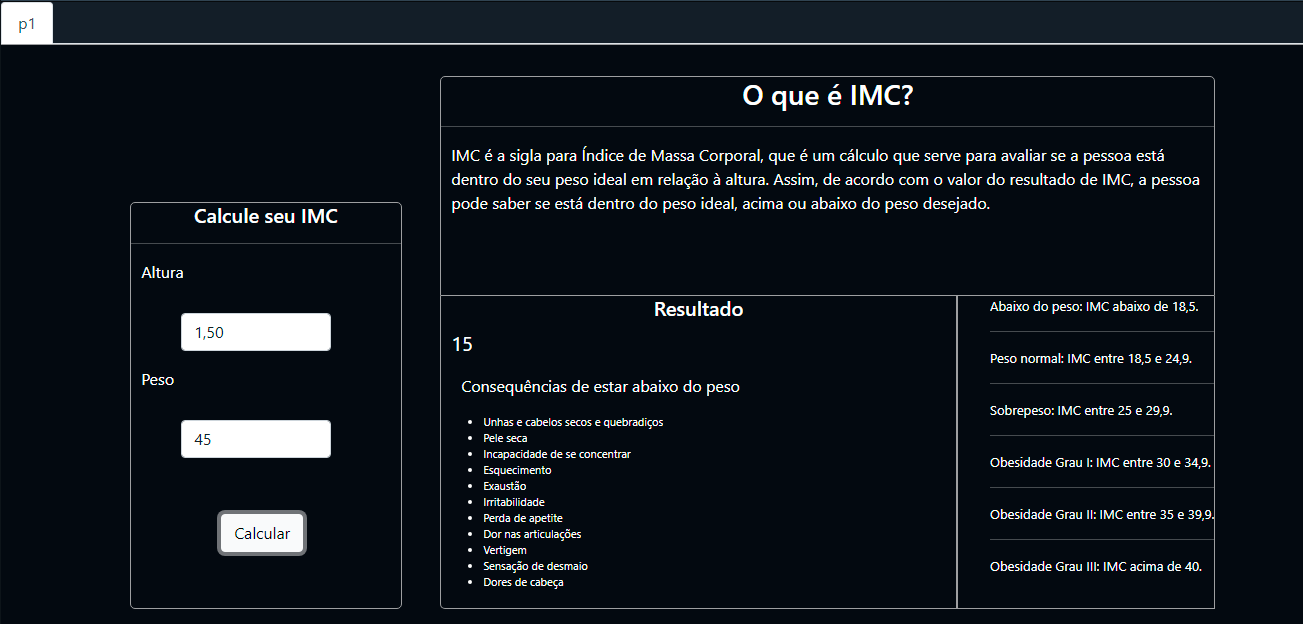
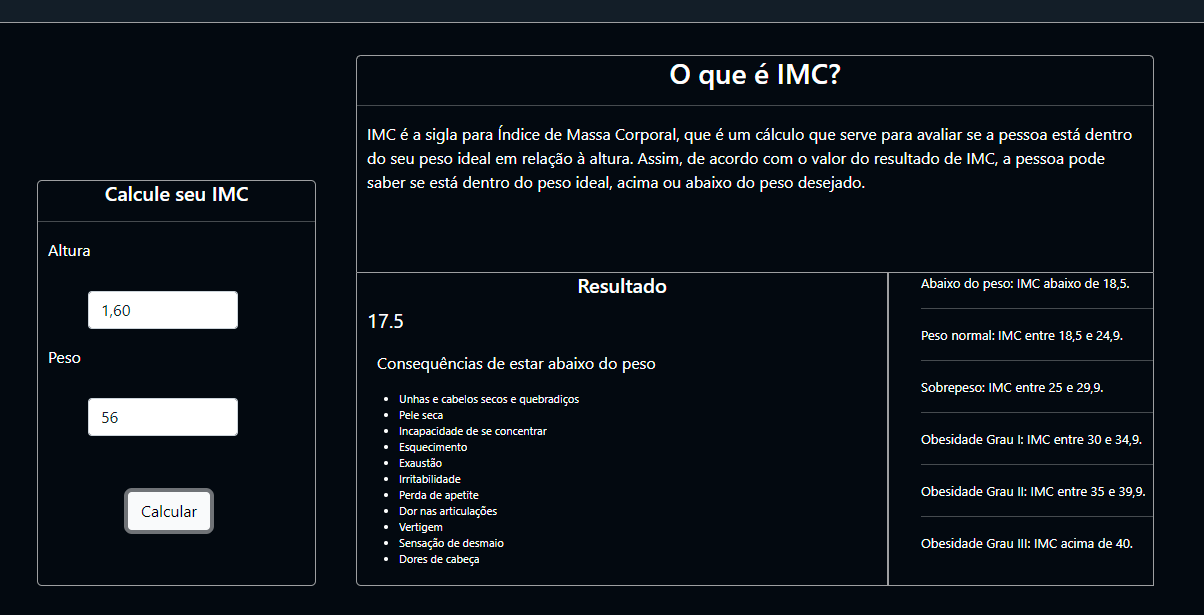
lay

diff --git a/IMC/index.js b/IMC/index.js
@@ -18,23 +18,23 @@ function Calcular() {
 
             } else if (imc < 24.9) {
                 res.innerHTML = imc
-                res2.innerHTML = '<h4>Peso normal!</h4> <p>asassa</p>'
+                res2.innerHTML = '<h4>Peso normal!</h4> <p>De acordo com a OMS, seu IMC é considerado normal para a sua altura. Para manter o valor de IMC normal</p>'
 
             } else if (imc < 29.9) {
                 res.innerHTML = imc
-                res2.innerHTML = '<h1>Sobre peso!</h1> <p>asassa</p>'
+                res2.innerHTML = '<h1>Sobre peso!</h1> <p>De acordo com a OMS, seu IMC está acima do recomendado para a sua altura. o cálculo de IMC não leva em consideração a composição corporal. Por esse motivo, pessoas com muita massa muscular, como é o caso de alguns atletas, podem apresentar um IMC acima do normal. O ideal é consultar um nutricionista para fazer uma avaliação mais detalhada.</p>'
 
             } else if (imc < 34.9) {
                 res.innerHTML = imc
-                res2.innerHTML = '<h1>Obesidade grau I!</h1> <p>asassa</p>'
+                res2.innerHTML = '<h1>Obesidade grau I!</h1> <p>De acordo com a OMS, seu IMC está acima do recomendado para a sua altura.</p><p> O ideal é consultar um nutricionista para fazer uma avaliação mais detalhada.</p>'
             }
             else if (imc < 39.9) {
                 res.innerHTML = imc
-                res2.innerHTML = '<h1>Obesidade grau II!</h1> <p>asassa</p>'
+                res2.innerHTML = '<h1>Obesidade grau II!</h1> <p>De acordo com a OMS, seu IMC está acima do recomendado para a sua altura.</p><p> O ideal é consultar um nutricionista para fazer uma avaliação mais detalhada.</p>'
             }
             else if (imc <= 40) {
                 res.innerHTML = imc
-                res2.innerHTML = '<h1>Obesidade grau III!</h1> <p>asassa</p>'
+                res2.innerHTML = '<h1>Obesidade grau III!</h1> <p>De acordo com a OMS, seu IMC está acima do recomendado para a sua altura.</p><p> O ideal é consultar um nutricionista para fazer uma avaliação mais detalhada.</p>'
             }
         }
 }

diff --git a/IMC/index.html b/IMC/index.html
@@ -17,17 +17,9 @@
     <script src="boot/js/bootstrap.min.js"></script>
 </head>
 <body>   
-    <div class="a1">
-        <nav>
-            <div class="nav nav-tabs" id="nav-tab" role="tablist">
-                  <button class="nav-link active" id="nav-p1-tab" data-bs-toggle="tab" data-bs-target="#nav-p1" type="button" role="tab" aria-controls="nav-p1" aria-selected="true">p1</button>         
-            </div>
-        </nav>
-    </div>
-
-        <div class="tab-content" id="nav-tabContent">
-            <div class="tab-pane fade show active" id="nav-p1" role="tabpanel" aria-labelledby="nav-p1-tab">
+    
                 <div id="container">
+                    <div class="a1"></div>
                     <div class="a2">
                         <h3>O que é IMC?</h3>
                         <hr>
@@ -71,15 +63,9 @@
                           </div>
                         <button type="button" class="btn btn-light" id="but" onclick="Calcular()">Calcular</button>
                     </div>
-                    <div class="a7">7</div>
+                    <div class="a7"></div>
                 </div>
             </div>
-
-
-
-
-                         
-        </div>
 </body>
 <script src="index.js"></script>
 </html>

diff --git a/IMC/index.css b/IMC/index.css
@@ -11,8 +11,9 @@
     background-color: #0d1117;
     display: grid;
     grid-template-columns: 0.7fr 0.3fr 1.1fr 1fr 0.3fr 2fr 2fr 2fr 0.7fr;
-    grid-template-rows:  5vh 20vh 15vh 10vh 20vh 20vh 5vh 5vh;
-    grid-template-areas:    "a1 a1 a1 a1 a1 a1 a1 a1 a1"                        
+    grid-template-rows:  5vh 5vh 20vh 15vh 10vh 20vh 20vh 5vh 5vh;
+    grid-template-areas:    "a1 a1 a1 a1 a1 a1 a1 a1 a1"
+                            ". . . . . . . . ."                        
                             ". . . . . a2 a2 a2 ."
                             ". . a6 a6 . a2 a2 a2 ."
                             ". . a6 a6 . a3 a3 a4 ."
@@ -24,11 +25,12 @@
 
 .a1{
     background-color: #1d232c;
-    grid-area:a1 ;
+    grid-area:a1;
     border: solid 1px #9d9e9f;    
+    border-top: 0px;   
     border-left: 0px;
-    border-top: 0px;
     border-right: 0px;
+    
 }
 
 .a2{
@@ -71,7 +73,6 @@
 .a7{
     background-color: #1d232c;
     grid-area:a7 ;
-    border-radius: 0 0 0 5px;
     border: solid 1px #9d9e9f;    
     border-left: 0px;
     border-right: 0px;

diff --git a/README.md b/README.md
@@ -1,2 +1,3 @@
 # Calculadora de IMC!
 
+
